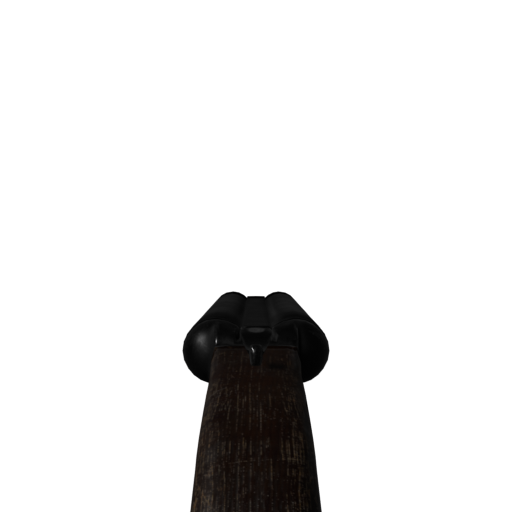
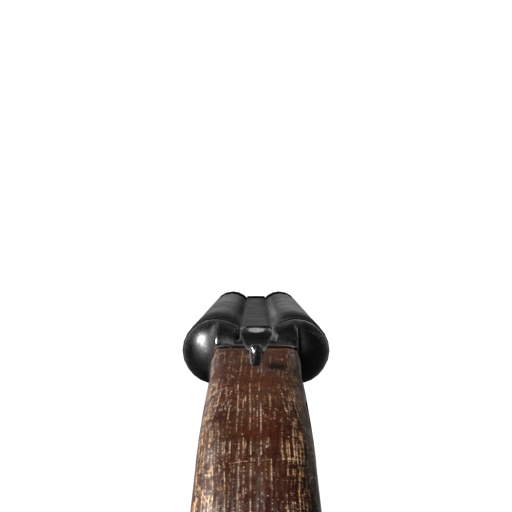
modif option

Changed region(s): [[0.3438, 0.5625, 0.625, 1.0], [0.625, 0.6562, 0.6562, 0.7188]]

diff --git a/src/display/raycasting.c b/src/display/raycasting.c
@@ -6,7 +6,7 @@
 /*   By: derey <derey@student.42.fr>                +#+  +:+       +#+        */
 /*                                                +#+#+#+#+#+   +#+           */
 /*   Created: 2024/09/09 09:52:53 by derey             #+#    #+#             */
-/*   Updated: 2024/10/29 13:23:26 by derey            ###   ########.fr       */
+/*   Updated: 2024/10/29 16:07:56 by trebours         ###   ########.fr       */
 /*                                                                            */
 /* ************************************************************************** */
 
@@ -98,14 +98,11 @@ void	set_side_step(t_ray *ray, t_map *data, int x)
 			break ;
 		else if (data->map[ray->map_y][ray->map_x] > '0')
 			hit = 1;
-		else if (ray->map_y == (int)(data->weapon.item.posy) && ray->map_x == (int)(data->weapon.item.posx))
+		else if (data->weapon.item.enabled && ray->map_y == (int)(data->weapon.item.posy) && ray->map_x == (int)(data->weapon.item.posx))
 		{
 			data->weapon.item.isvisible = true;
 			if (data->weapon.item.x == -1)
-			{
 				data->weapon.item.x = x;
-			}
-//			break ;
 		}
 	}
 }
@@ -540,9 +537,6 @@ void draw_minimap(t_map *data)
     draw_isometric_rhombus(player_minimap_x, player_minimap_y, 10, 5, PLAYER_COLOR, data);
 }
 
-
-
-
 void	draw_ray(int x, t_ray *ray, t_map *data)
 {
 	mlx_texture_t	*tex;
@@ -571,67 +565,6 @@ void	draw_ray(int x, t_ray *ray, t_map *data)
 	i = ray->draw_end;
 }
 
-uint32_t	get_color(TXT *tex, t_map *data, int item_dist, int x, int y)
-{
-	uint32_t col;
-	uint32_t color;
-
-	//printf("%d\n", ray->line_height);
-	col = ((uint32_t *)tex->pixels)[ft_abs(tex->height * (y) - (x))];
-	if (item_dist >= FOG_MIN && data->fog == true)
-		color = color_fog(col, data->raycast);
-	else
-		color = color_tex(col);
-	return (color);
-}
-
-void	display_item(t_map *data, int x)
-{
-	(void)x;
-	double	item_dist = (data->game->player_x - data->weapon.item.posx) * (data->game->player_x - data->weapon.item.posx) - (data->game->player_y - data->weapon.item.posy) * (data->game->player_y - data->weapon.item.posy);
-	double	spriteX = data->weapon.item.posx - data->game->player_x;
-	double	spriteY = data->weapon.item.posy - data->game->player_y;
-	double invDet = 1.0 / (data->game->plane_x * data->game->dir_y - data->game->dir_x * data->game->plane_y);
-
-	double	transformX = invDet * (data->game->dir_y * spriteX - data->game->dir_x * spriteY);
-	double	transformY = invDet * (-data->game->plane_y * spriteX + data->game->plane_x * spriteY);
-
-	int		spriteScreenX = (int)((WINDOWSW / 2) * (1 + transformX / transformY));
-
-	int		spriteHeight = ft_abs((int)(WINDOWSH/ transformY));
-	int 	drawStartY = -spriteHeight / 2 + WINDOWSH / 2;
-	if (drawStartY < 0)
-		drawStartY = 0;
-	int 	drawEndY = spriteHeight / 2 + WINDOWSH / 2;
-	if (drawEndY >= WINDOWSH)
-		drawEndY = WINDOWSH - 1;
-	int		spriteWidth = ft_abs((int)(WINDOWSH / transformY));
-	int 	drawStartX = -spriteWidth / 2 + spriteScreenX;
-	int 	drawEndX = drawStartX + spriteWidth;
-	if (drawStartX < 0)
-		drawStartX = 0;
-	if (drawEndX >= WINDOWSW)
-		drawEndX = WINDOWSW - 1;
-	for (int px = drawStartX; px < drawEndX; px++)
-	{
-		int texX = -((px - (-spriteWidth / 2 + spriteScreenX)) * data->weapon.item.texture->width / spriteWidth);
-		if (texX && transformY > 0 && px > 0 && px < WINDOWSW)
-		{
-			for (int py = drawStartY; py < drawEndY; py++) {
-				int d = (py) * 256 - WINDOWSH * 128 + spriteHeight * 128;
-				int	texY = (int)((d * data->weapon.item.texture->height) / spriteHeight) / 256;
-				if (texY && py > 0 && py < WINDOWSH) {
-					uint32_t color = get_color(data->weapon.item.texture, data, item_dist, texX, texY);
-					if((color & 0xFFFFFFFF) != 0)
-						try_put_pixel(data->rayc, px, py, color);
-				}
-			}
-		}
-	}
-	data->weapon.item.isvisible = false;
-	data->weapon.item.x = -1;
-}
-
 void	raycasting(t_map *data)
 {
 	t_ray	*ray;
@@ -654,6 +587,5 @@ void	raycasting(t_map *data)
 	if (data->plafond)
 		  draw_minimap(data);
 	if (data->weapon.item.isvisible == true)
-		display_item(data, x);
-
+		display_item(data, &data->weapon.item);
 }

diff --git a/src/display/raycast_item.c b/src/display/raycast_item.c
@@ -1,0 +1,102 @@
+/* ************************************************************************** */
+/*                                                                            */
+/*                                                        :::      ::::::::   */
+/*   raycast_item.c                                     :+:      :+:    :+:   */
+/*                                                    +:+ +:+         +:+     */
+/*   By: trebours <trebours@student.1337.ma>        +#+  +:+       +#+        */
+/*                                                +#+#+#+#+#+   +#+           */
+/*   Created: 1970/01/01 01:00:00 by trebours          #+#    #+#             */
+/*   Updated: 2024/10/29 16:06:38 by trebours         ###   ########.fr       */
+/*                                                                            */
+/* ************************************************************************** */
+
+#include "../../includes/cub3d.h"
+
+void	print_color(t_item *item, t_map *data, int x, int y)
+{
+	uint32_t	col;
+	uint32_t	color;
+
+	col = ((uint32_t *)item->textures[item->index]->pixels)[ft_abs(
+			item->textures[item->index]->height * (y) - (x))];
+	if (item->item_dist >= FOG_MIN && data->fog == true)
+		color = color_fog(col, data->raycast);
+	else
+		color = color_tex(col);
+	if ((color & 0xFFFFFFFF) != 0)
+		try_put_pixel(data->rayc, item->px, item->py, color);
+}
+
+static void	print_item(t_map *data, t_item *item)
+{
+	item->px = item->drawstart_x;
+	while (item->px < item->drawend_x)
+	{
+		item->py = item->drawstart_y;
+		item->tex_x = (int)-((item->px - (-item->width / 2 + item
+						->screen_x)) * item->textures[item->index]->width
+				/ item->width);
+		if (item->tex_x && item->transform_y > 0
+			&& item->px > 0 && item->px < WINDOWSW)
+		{
+			while (item->py < item->drawend_y)
+			{
+				item->d = item->py * 256 - WINDOWSH * 128 + item->height * 128;
+				item->tex_y = (int)((item->d * item->textures[item->index]->height)
+						/ item->height) / 256;
+				if (item->tex_y && item->py > 0 && item->py < WINDOWSH)
+					print_color(item, data, item->tex_x, item->tex_y);
+				item->py++;
+			}
+		}
+		item->px++;
+	}
+}
+
+static void	anim_item(t_item *item)
+{
+	static long time = -1;
+
+	if (time == -1)
+		time = get_time();
+	if (get_time() - time >= 500)
+	{
+		item->index = !item->index;
+		time = get_time();
+	}
+}
+
+void	display_item(t_map *data, t_item *item)
+{
+	anim_item(item);
+	item->item_dist = (data->game->player_x - item->posx) * (data->game->player_x - item->posx) - (data->game->player_y - item->posy) * (data->game->player_y - item->posy);
+	if (item->item_dist < 0.5)
+	{
+		item->enabled = false;
+		data->weapon.nb_availed_weapon = 2;
+		data->weapon.index_weapon = 1;
+	}
+	item->sprite_x = item->posx - data->game->player_x;
+	item->sprite_y = item->posy - data->game->player_y;
+	item->invdet = 1.0 / (data->game->plane_x * data->game->dir_y - data->game->dir_x * data->game->plane_y);
+	item->transform_x = item->invdet * (data->game->dir_y * item->sprite_x - data->game->dir_x * item->sprite_y);
+	item->transform_y = item->invdet * (-data->game->plane_y * item->sprite_x + data->game->plane_x * item->sprite_y);
+	item->screen_x = (int)((WINDOWSW / 2) * (1 + item->transform_x / item->transform_y));
+	item->height = ft_abs((int)(WINDOWSH/ item->transform_y));
+	item->drawstart_y = -item->height / 2 + WINDOWSH / 2;
+	if (item->drawstart_y < 0)
+		item->drawstart_y = 0;
+	item->drawend_y = item->height / 2 + WINDOWSH / 2;
+	if (item->drawend_y >= WINDOWSH)
+		item->drawend_y = WINDOWSH - 1;
+	item->width = ft_abs((int)(WINDOWSH / item->transform_y));
+	item->drawstart_x = -item->width / 2 + item->screen_x;
+	item->drawend_x = item->drawstart_x + item->width;
+	if (item->drawstart_x < 0)
+		item->drawstart_x = 0;
+	if (item->drawend_x >= WINDOWSW)
+		item->drawend_x = WINDOWSW - 1;
+	print_item(data, item);
+	data->weapon.item.isvisible = false;
+	data->weapon.item.x = -1;
+}

diff --git a/src/init_anim.c b/src/init_anim.c
@@ -6,7 +6,7 @@
 /*   By: derey <derey@student.42.fr>                +#+  +:+       +#+        */
 /*                                                +#+#+#+#+#+   +#+           */
 /*   Created: 2024/10/07 16:07:53 by trebours          #+#    #+#             */
-/*   Updated: 2024/10/29 13:30:08 by derey            ###   ########.fr       */
+/*   Updated: 2024/10/29 16:01:20 by trebours         ###   ########.fr       */
 /*                                                                            */
 /* ************************************************************************** */
 
@@ -74,14 +74,16 @@ static void	init_img(t_map *data, t_textures *weapon)
 void	init_item(t_item *item, t_map *data)
 {
 	item->enabled = true;
-	item->hit = false;
-	item->posx = 5.5;
-	//item->posx = 3.5;
-	item->posy = 10.5;
-//	item->posy = 1.5;
+//	item->posx = 5.5;
+	item->posx = 3.5;
+//	item->posy = 10.5;
+	item->posy = 1.5;
 	data->weapon.item.x = -1;
 	item->isvisible = false;
-	item->texture = mlx_load_png("tiles/animation/pm.png"); // a free
+	item->index = 0;
+	item->textures = calloc(2, sizeof(TXT *));
+	item->textures[0] = mlx_load_png("tiles/animation/pm.png"); // a free
+	item->textures[1] = mlx_load_png("tiles/animation/pm_2.png"); // a free
 }
 
 void	init_anim(t_map *data)

diff --git a/includes/struct.h b/includes/struct.h
@@ -6,7 +6,7 @@
 /*   By: derey <derey@student.42.fr>                +#+  +:+       +#+        */
 /*                                                +#+#+#+#+#+   +#+           */
 /*   Created: 2024/08/21 13:24:45 by trebours          #+#    #+#             */
-/*   Updated: 2024/10/29 13:15:06 by derey            ###   ########.fr       */
+/*   Updated: 2024/10/29 14:36:45 by trebours         ###   ########.fr       */
 /*                                                                            */
 /* ************************************************************************** */
 
@@ -136,11 +136,30 @@ typedef struct s_item
 {
 	double	posy;
 	double	posx;
-	TXT		*texture;
-	bool	hit;
+	int	index;
+	TXT		**textures; // a remplacer
 	bool	enabled;
 	bool	isvisible;
 	int 	x;
+	double	item_dist;
+	double	sprite_x;
+	double	sprite_y;
+	double	invdet;
+	double	transform_x;
+	double	transform_y;
+	int 	screen_x;
+	int 	height;
+	int 	width;
+	int 	drawstart_y;
+	int 	drawstart_x;
+	int 	drawend_y;
+	int 	drawend_x;
+	int			px;
+	int			py;
+	int			tex_x;
+	int			tex_y;
+	int			d;
+	uint32_t	color;
 } t_item;
 
 typedef struct	s_anim

diff --git a/includes/cub3d.h b/includes/cub3d.h
@@ -6,7 +6,7 @@
 /*   By: derey <derey@student.42.fr>                +#+  +:+       +#+        */
 /*                                                +#+#+#+#+#+   +#+           */
 /*   Created: 2024/08/21 10:22:00 by trebours          #+#    #+#             */
-/*   Updated: 2024/10/18 10:01:22 by trebours         ###   ########.fr       */
+/*   Updated: 2024/10/29 14:00:41 by trebours         ###   ########.fr       */
 /*                                                                            */
 /* ************************************************************************** */
 
@@ -72,5 +72,11 @@ void	anime_txt(t_textures *weapone, int *index);
 void	ft_anim(t_map *data, t_weapon *current, t_weapon *nodisplay);
 long	get_time(void);
 void	choose_weapon(t_map *data);
+
+void		display_item(t_map *data, t_item *item);
+uint32_t	color_fog(int32_t a, t_ray *ray);
+uint32_t	color_tex(int32_t r);
+void		try_put_pixel(mlx_image_t *img, uint32_t x, uint32_t y, int color);
+int			ft_abs(int nb);
 
 #endif
